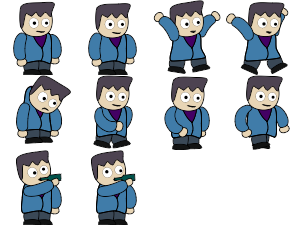
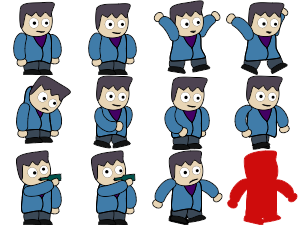
ftr(Core): add death animation

Changed region(s): [[0.51, 0.6533, 0.99, 1.0]]

diff --git a/happily/src/game/Core.js b/happily/src/game/Core.js
@@ -57,6 +57,12 @@ export default class Core {
     /** @type {Flame[]} */
     _flames;
 
+    /** @type {Phaser.GameObjects.Image} */
+    _fade;
+
+    /** @type {Boolean} */
+    _isRestarting;
+
     /**
      * @param {Phaser.Scene} scene 
      */
@@ -136,6 +142,13 @@ export default class Core {
             me._flames.push(flame);
         }
 
+        me._fade = scene.add.image(Consts.Viewport.Width / 2, Consts.Viewport.Height / 2, 'fade')
+            .setScrollFactor(0)
+            .setDepth(Consts.Depth.Max)
+            .setVisible(false);
+
+        me._isRestarting = false;
+
         // phaser
 
         scene.cameras.main
@@ -172,6 +185,9 @@ export default class Core {
 
     update() {
         const me = this;
+
+        if (me._isRestarting)
+            return;
 
         const status = me._player.update();
         me._controls.update();
@@ -210,7 +226,28 @@ export default class Core {
 
         for (let i = 0; i < me._flames.length; ++i) {
             if (me._flames[i].checkDamage(player)) {
-                console.log('TODO: dead!');
+                
+                me._isRestarting = true;
+
+                me._player.makeDeath();
+                if (me._she.state == Enums.SheState.FLY)
+                    me._she.makeDeath();
+
+                me._scene.time.delayedCall(
+                    1000,
+                    () => {
+                        me._fade.setVisible(true).setAlpha(0);
+                        me._scene.add.tween({
+                            targets: me._fade,
+                            alpha: { from: 0, to: 1 },
+                            ease: 'ease.SineInOut',
+                            duration: 3000,
+                            onComplete: () => {
+                                me._scene.scene.restart(me._levelIndex);
+                            }
+                        })
+                    })
+
                 return;
             }
         }

diff --git a/happily/src/scenes/Game.js b/happily/src/scenes/Game.js
@@ -20,6 +20,7 @@ export default class Game extends Phaser.Scene {
 
         Utils.loadImage(me, 'background');
         Utils.loadImage(me, 'big_bottle');
+        Utils.loadImage(me, 'fade');
 
         Utils.loadSpriteSheet(me, 'tiles', Consts.Unit.Small);
         Utils.loadSpriteSheet(me, 'player', Consts.Unit.Big);
@@ -84,6 +85,13 @@ export default class Game extends Phaser.Scene {
             repeat: -1
         });
 
+        me.anims.create({
+            key: 'player_death',
+            frames: me.anims.generateFrameNumbers('player', { frames: [ 10, 11 ]}),
+            frameRate: 8,
+            repeat: -1
+        });
+
         // she
 
         me.anims.create({
@@ -119,6 +127,13 @@ export default class Game extends Phaser.Scene {
         me.anims.create({
             key: 'she_fly_player_slow',
             frames: me.anims.generateFrameNumbers('she', { frames: [ 9, 10 ] }),
+            frameRate: 8,
+            repeat: -1
+        });
+
+        me.anims.create({
+            key: 'she_death',
+            frames: me.anims.generateFrameNumbers('she', { frames: [ 12, 13 ] }),
             frameRate: 8,
             repeat: -1
         });

diff --git a/happily/src/game/Player.js b/happily/src/game/Player.js
@@ -168,6 +168,14 @@ export default class Player {
         me._container.body.setVelocity(0);
     }
 
+    makeDeath() {
+        const me = this;
+
+        me.disablePhysics();
+        me.isBusy = true;
+        me._sprite.play('player_death', true);
+    }
+
     _getVelocity(fly) {
         const me = this;
 

diff --git a/happily/src/game/She.js b/happily/src/game/She.js
@@ -244,4 +244,14 @@ export default class She {
             }
         });       
     }
+
+    makeDeath() {
+        const me = this;
+
+        if (!!me._tween)
+            me._tween.stop();
+
+        me._wings.setVisible(false);
+        me._sprite.play('she_death');
+    }
 }
